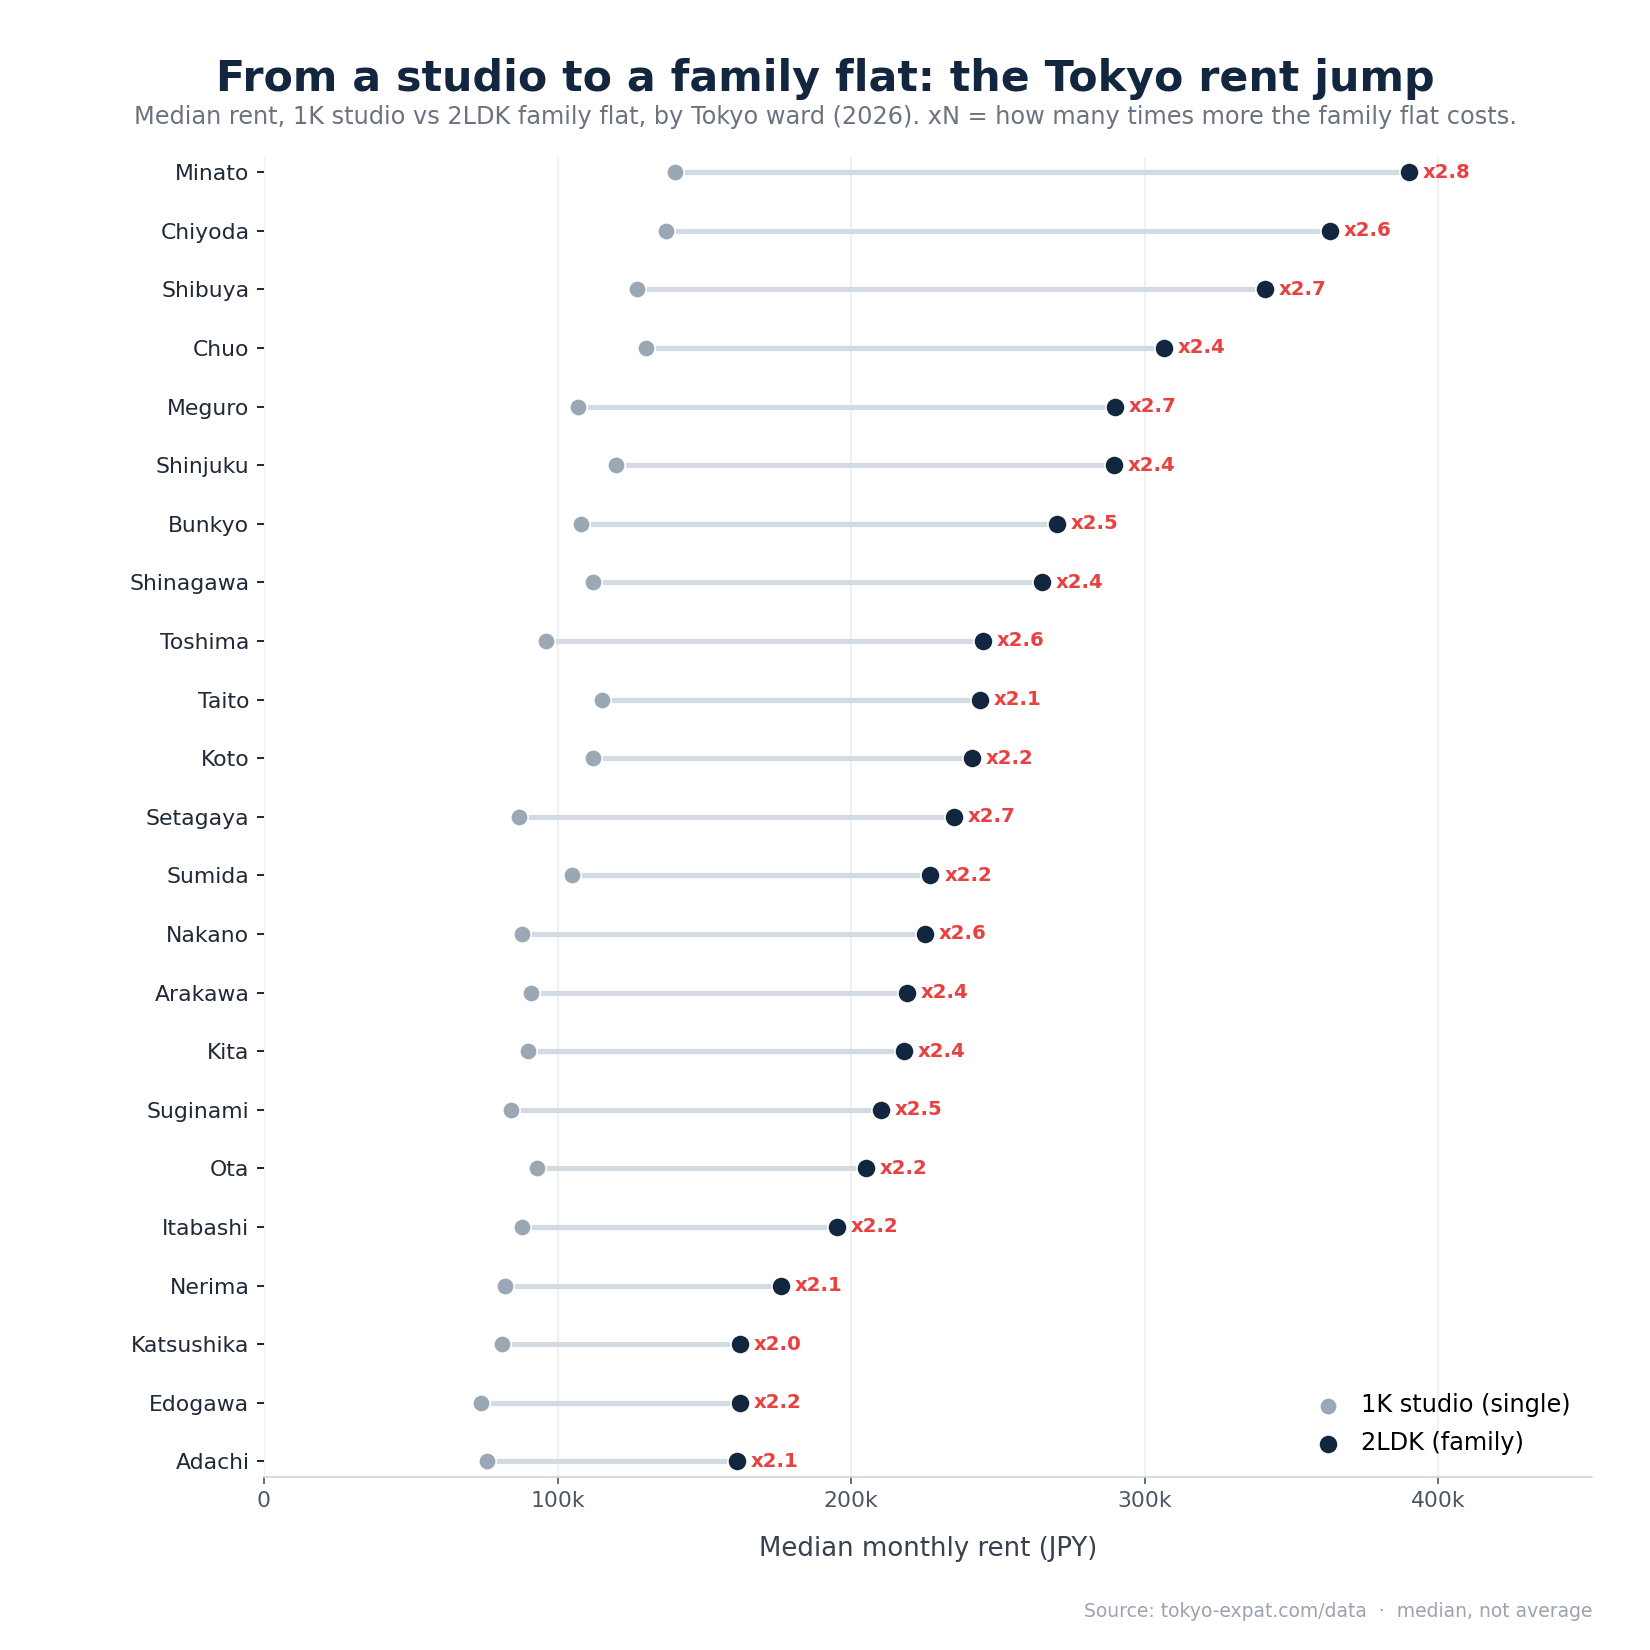
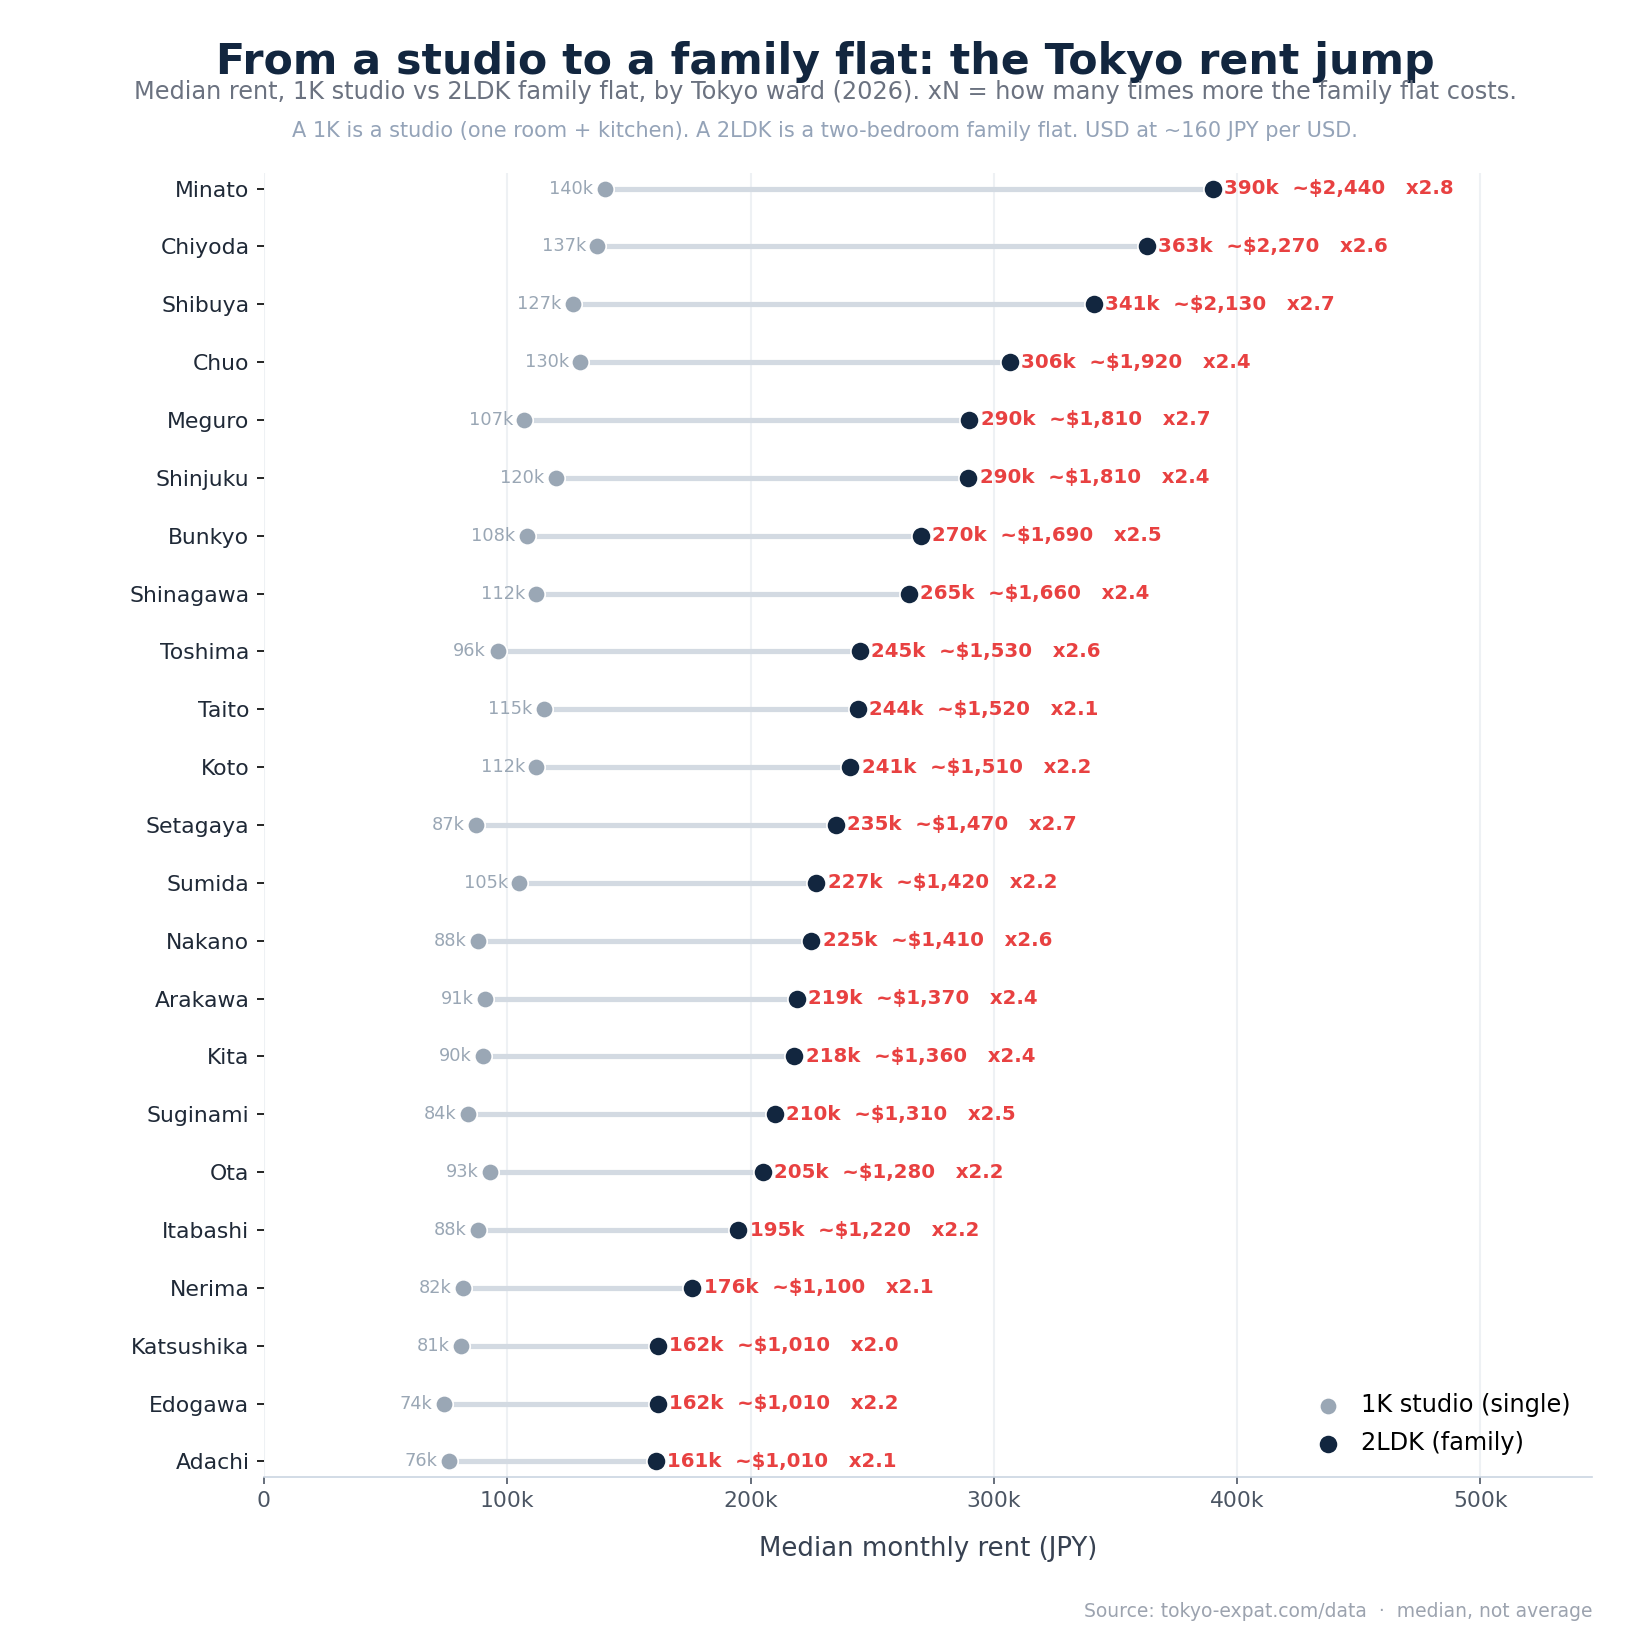
munition layout-gap: USD + note layout, file reordonnee (fire next)
- generate_layout_gap_chart.py: labels USD (~160 JPY) + note 1K/2LDK + espacement
- tokyo-layout-gap.png regenere (23 wards, x2.0-2.8)
- reddit_queue.json: layout-gap place 1er 'ready' (part vendredi)
- snapshot email du soir

diff --git a/scripts/generate_layout_gap_chart.py b/scripts/generate_layout_gap_chart.py
@@ -43,12 +43,15 @@ ax.scatter(studio, y, color=GREY, s=70, zorder=2, label="1K studio (single)", ed
 ax.scatter(family, y, color=NAVY, s=85, zorder=3, label="2LDK (family)", edgecolors="white", linewidths=0.8)
 for i, (_, s, f) in enumerate(rows):
     mult = f / s
-    ax.text(f + xmax * 0.012, i, f"x{mult:.1f}", va="center", ha="left",
-            fontsize=9.5, color=RED, fontweight="bold")
+    usd = round(f / 160 / 10) * 10
+    ax.text(s - xmax * 0.012, i, f"{s/1000:.0f}k", va="center", ha="right",
+            fontsize=8.5, color=GREY)
+    ax.text(f + xmax * 0.012, i, f"{f/1000:.0f}k  ~\\${usd:,.0f}   x{mult:.1f}",
+            va="center", ha="left", fontsize=9.5, color=RED, fontweight="bold")
 
 ax.set_yticks(y)
 ax.set_yticklabels(names, fontsize=10.5, color="#1f2937")
-ax.set_xlim(0, xmax * 1.16)
+ax.set_xlim(0, xmax * 1.40)
 ax.xaxis.set_major_formatter(lambda x, _: f"{int(x/1000)}k" if x else "0")
 ax.set_xlabel("Median monthly rent (JPY)", fontsize=12.5, color="#374151", labelpad=12)
 ax.tick_params(axis="x", labelsize=10.5, colors="#4b5563")
@@ -60,13 +63,17 @@ ax.set_axisbelow(True)
 ax.margins(y=0.012)
 leg = ax.legend(loc="lower right", frameon=False, fontsize=11.5, handletextpad=0.4, labelspacing=0.6)
 
-plt.subplots_adjust(top=0.905, bottom=0.105, left=0.16, right=0.965)
+plt.subplots_adjust(top=0.895, bottom=0.105, left=0.16, right=0.965)
 fig.suptitle("From a studio to a family flat: the Tokyo rent jump", fontsize=20.5,
-             fontweight="bold", color=NAVY, x=0.5, y=0.965)
-fig.text(0.5, 0.925,
+             fontweight="bold", color=NAVY, x=0.5, y=0.975)
+fig.text(0.5, 0.94,
          "Median rent, 1K studio vs 2LDK family flat, by Tokyo ward (2026). "
          "xN = how many times more the family flat costs.",
          ha="center", fontsize=11.5, color="#6b7280")
+fig.text(0.5, 0.917,
+         "A 1K is a studio (one room + kitchen). A 2LDK is a two-bedroom family flat. "
+         "USD at ~160 JPY per USD.",
+         ha="center", fontsize=10, color="#94a3b8")
 fig.text(0.965, 0.02, "Source: tokyo-expat.com/data  ·  median, not average",
          ha="right", fontsize=9, color="#9ca3af")
 